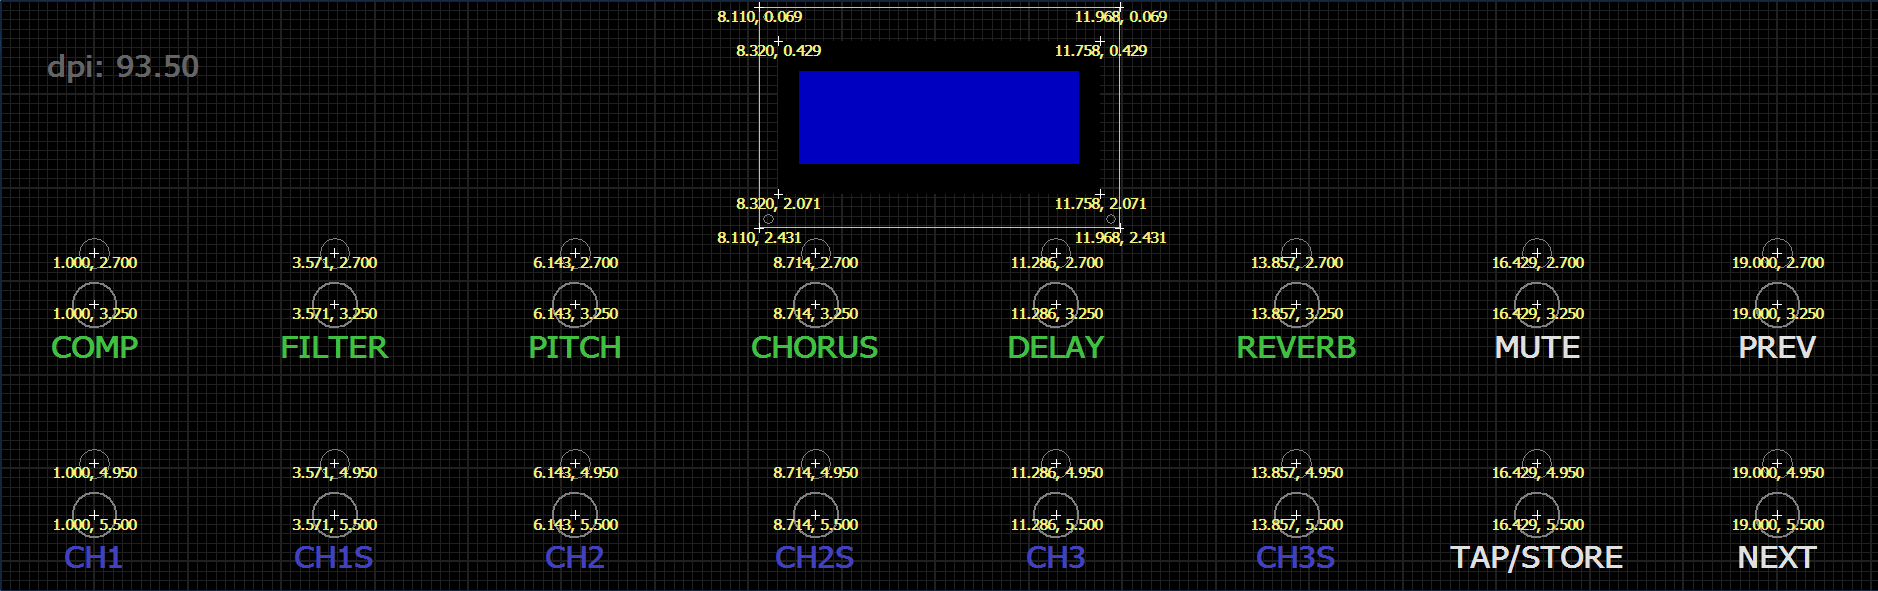
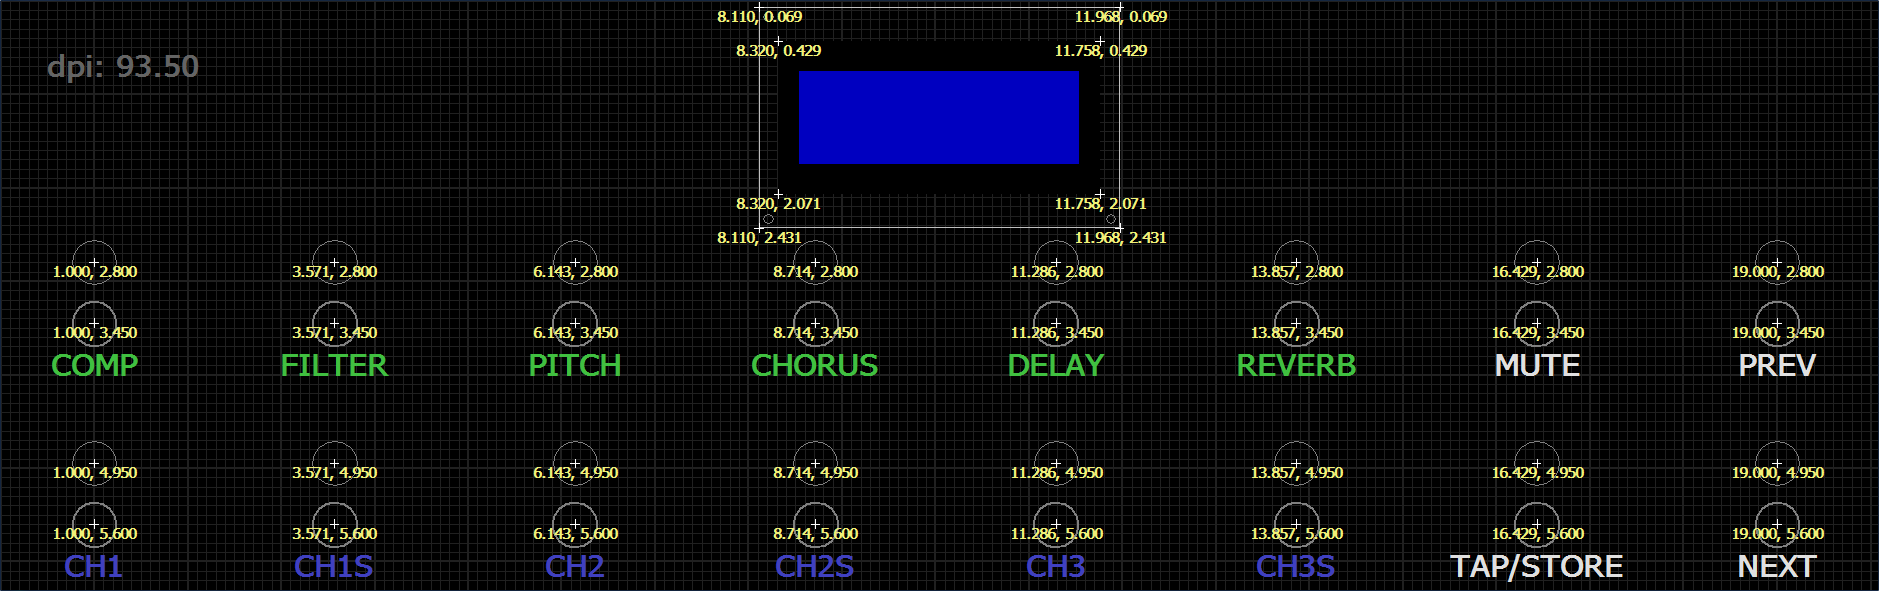
Updated face-dimensions.png to accommodate actual LED sizes.

diff --git a/v2/controller/Win32/eminorv2.c b/v2/controller/Win32/eminorv2.c
@@ -21,7 +21,7 @@ static HINSTANCE zhInstance = NULL;
 // display scale factor (pixels per inch)
 // NOTE(jsd): 55.4 dpi is to-scale on my 40" Samsung HDTV 1080p
 const double defaultDpi = 55.4;
-static double dpi = 55.4;
+static double dpi = 93.5;
 
 // Total width, height in inches:
 const double inWidth = 20.078;
@@ -32,12 +32,12 @@ const double hLeft = 1.0;
 const double hSpacing = 2.5714285714285714285714285714286;
 
 // From bottom going up:
-const double vStart = 5.5;
-const double vSpacing = 2.25;
+const double vStart = 5.6;
+const double vSpacing = 2.15;
 
-const double vLEDOffset = -0.55;
+const double vLEDOffset = -0.65;
 
-const double inLEDOuterDiam = (8 /*mm*/ * mmToIn);
+const double inLEDOuterDiam = (12 /*mm*/ * mmToIn);
 const double inFswOuterDiam = (12.2 /*mm*/ * mmToIn);
 const double inFswInnerDiam = (10 /*mm*/ * mmToIn);
 
